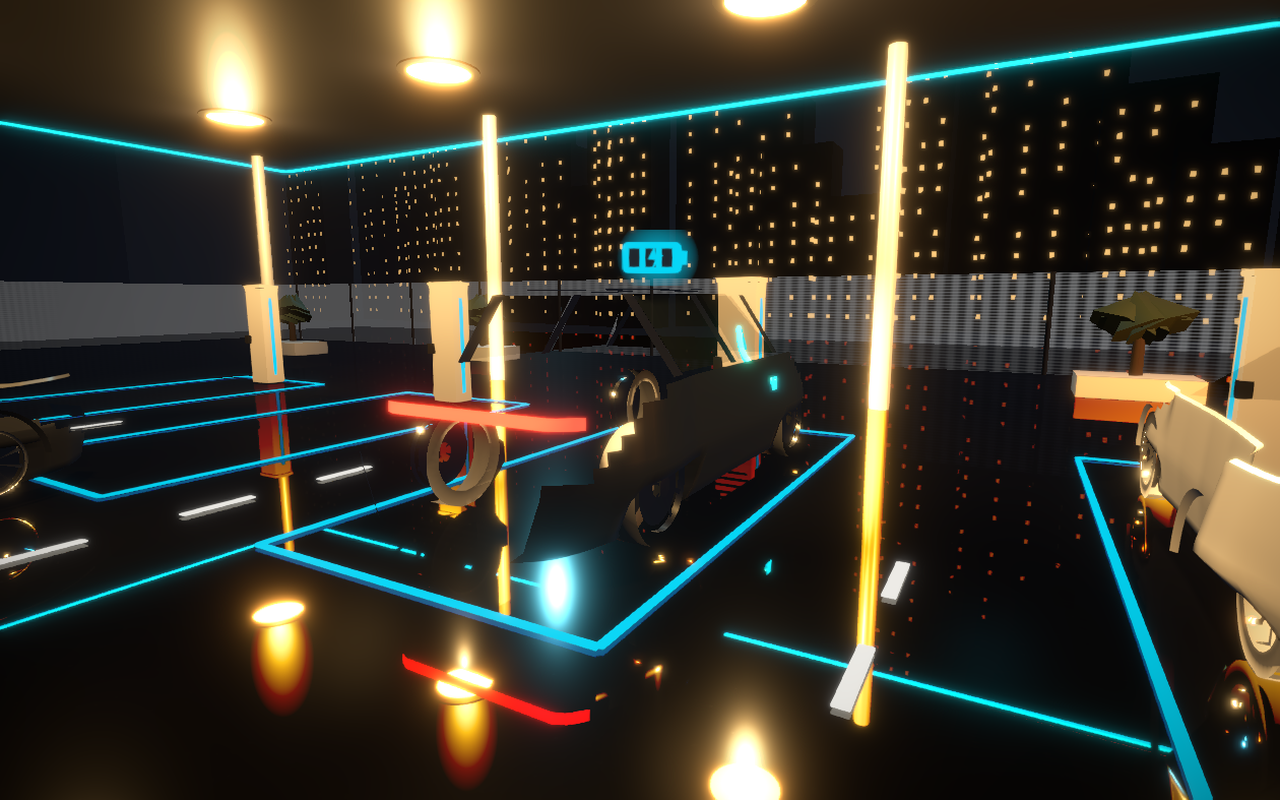
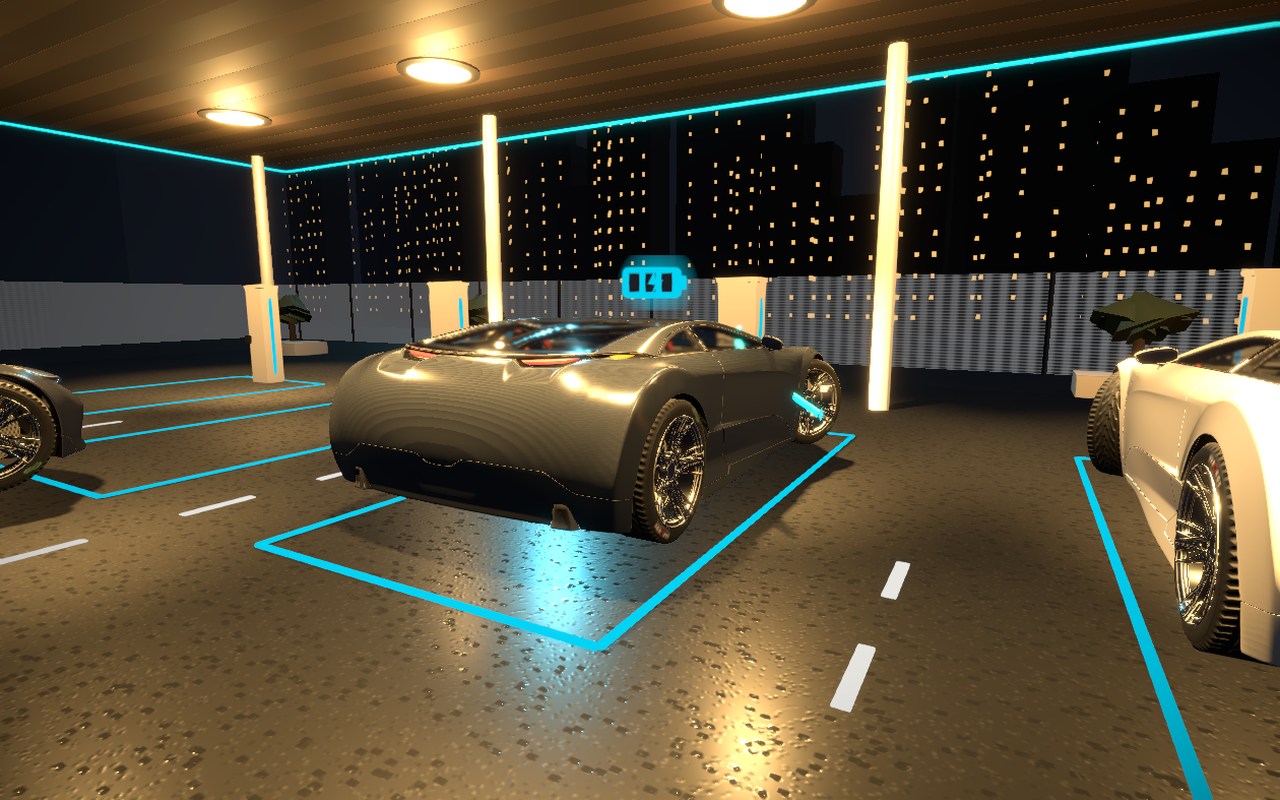
feat: recapture startNight stills after paint and bloom tune
Drop the concept-car flake normal so clearcoat reads glossy, ease
bloom and lounge glow so white bodies and furniture do not blow out,
and overwrite the 1280x800 startNight lot stills.

diff --git a/src/world/station.ts b/src/world/station.ts
@@ -233,14 +233,14 @@ function addPavilion(root: THREE.Group): THREE.Box3 {
   g.position.set(PAVILION.x, 0, PAVILION.z);
   const wall = mat(0xefeae0, { roughness: 0.38, metalness: 0.08 });
   const glass = new THREE.MeshPhysicalMaterial({
-    color: 0x6a5030,
-    roughness: 0.04,
-    metalness: 0.12,
-    transmission: 0.72,
+    color: 0x4a3824,
+    roughness: 0.06,
+    metalness: 0.08,
+    transmission: 0.55,
     transparent: true,
-    opacity: 0.38,
-    thickness: 0.18,
-    envMapIntensity: 1.4,
+    opacity: 0.32,
+    thickness: 0.14,
+    envMapIntensity: 1.1,
   });
   g.add(box(6.2, 0.16, 4.6, wall, 0, 0.08, 0));
   g.add(box(6.0, 0.14, 4.4, wall, 0, 3.12, 0));
@@ -257,12 +257,12 @@ function addPavilion(root: THREE.Group): THREE.Box3 {
   back.rotation.y = Math.PI;
   g.add(front, back);
 
-  const warm = new THREE.PointLight(0xff9a3c, 140, 12, 1.3);
+  const warm = new THREE.PointLight(0xff9a3c, 55, 10, 1.35);
   warm.position.set(0, 2.0, 0);
   g.add(warm);
   const glow = new THREE.Mesh(
     new THREE.BoxGeometry(5.2, 2.2, 3.6),
-    new THREE.MeshBasicMaterial({ color: 0xff8a2a, transparent: true, opacity: 0.07 }),
+    new THREE.MeshBasicMaterial({ color: 0xff8a2a, transparent: true, opacity: 0.035 }),
   );
   glow.position.set(0, 1.4, 0);
   g.add(glow);

diff --git a/src/world/cars.ts b/src/world/cars.ts
@@ -103,11 +103,13 @@ function dressConcept(root: THREE.Object3D): void {
     eachMat(mesh, (m) => {
       const mn = (m.name ?? "").toLowerCase();
       if (mn.includes("paint")) {
+        m.normalMap = null;
+        if (m.normalScale) m.normalScale.set(0, 0);
         m.clearcoat = 1;
-        m.clearcoatRoughness = 0.04;
-        m.roughness = Math.min(m.roughness ?? 0.24, 0.24);
-        m.metalness = 0.14;
-        m.envMapIntensity = 2.1;
+        m.clearcoatRoughness = 0.035;
+        m.roughness = 0.16;
+        m.metalness = 0.08;
+        m.envMapIntensity = 1.85;
       } else if (mn.includes("glass") || label.includes("window") || label.includes("windshield")) {
         m.roughness = 0.025;
         m.envMapIntensity = 1.75;

diff --git a/src/main.ts b/src/main.ts
@@ -311,11 +311,12 @@ async function saveShots(): Promise<void> {
   };
   while (!ready) await new Promise((r) => setTimeout(r, 40));
   if (state.phase === "title") dropIn();
-  for (let i = 0; i < 8; i++) {
+  for (let i = 0; i < 16; i++) {
     syncCars(cars, scene, state, i * 0.05);
     pipeline.render();
     await new Promise((r) => setTimeout(r, 80));
   }
+  await new Promise((r) => setTimeout(r, 600));
   await post("/workspace/docs/shots/startnight-lot.png", capture(1280, 800));
   walker.place(-5.4, -2.1);
   walker.lookAt(-2.45, 0.72, 3.15);

diff --git a/src/render/pipeline.ts b/src/render/pipeline.ts
@@ -71,8 +71,8 @@ export function createPipeline(
   });
   composer.addPass(new RenderPass(scene, camera));
   const bloom = new BloomEffect({
-    intensity: 0.18,
-    luminanceThreshold: 0.66,
+    intensity: 0.14,
+    luminanceThreshold: 0.72,
     luminanceSmoothing: 0.18,
     mipmapBlur: true,
     radius: 0.36,
